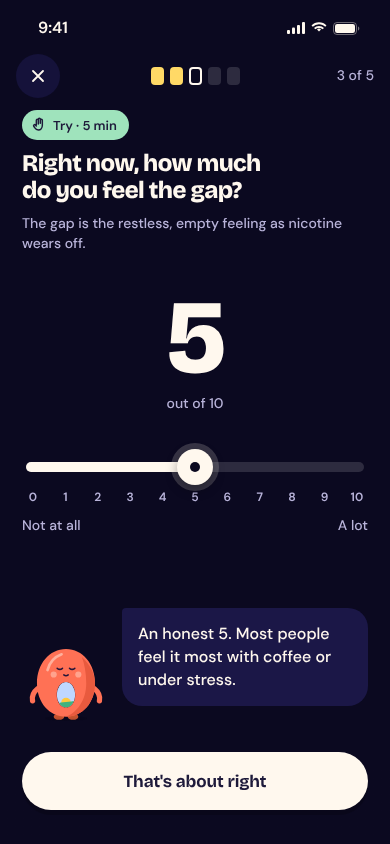
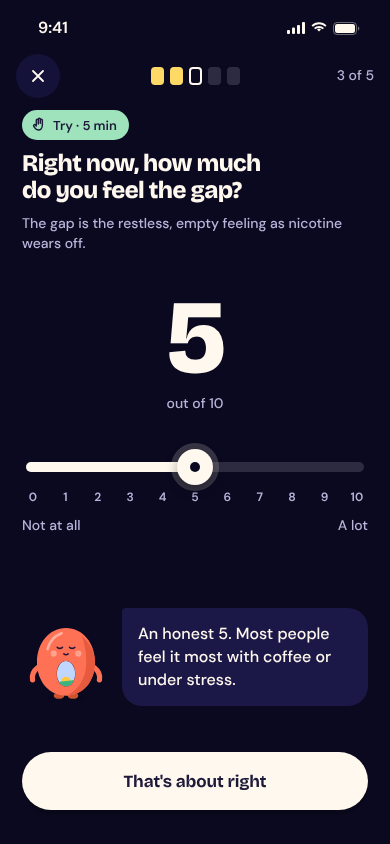
Cook: screens in progress
Claude-Session: https://claude.ai/code/session_01DZ7ApmrncqosUtJWfkxY6v

Changed region(s): [[0.0615, 0.7393, 0.2769, 0.8626]]

diff --git a/cook/site/screens/028-session-slider.html b/cook/site/screens/028-session-slider.html
@@ -28,7 +28,7 @@
 .ticks{display:flex;justify-content:space-between;margin:18px 4px 0;padding:0}
 .ticks span{width:14px;text-align:center}
 .ends{display:flex;justify-content:space-between;margin-top:10px}
-.xrow{position:absolute;top:592px;left:var(--gutter);right:var(--gutter);display:flex;gap:12px;align-items:flex-end}
+.xrow{position:absolute;top:592px;left:var(--gutter);right:var(--gutter);display:flex;gap:12px;align-items:center}
 .xrow .bubble{background:var(--card);color:var(--fg)}
 </style>
 </head><body>
